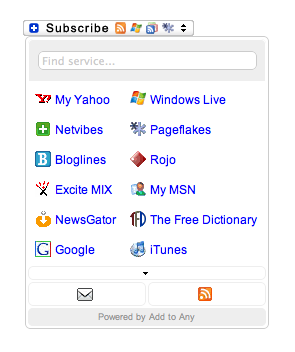
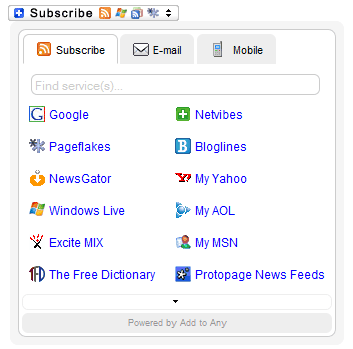
* Language & localization update * Screenshots updated
git-svn-id: https://plugins.svn.wordpress.org/add-to-any-subscribe/trunk@73704 b8457f37-d9ea-0310-8a92-e5e31aec5664

diff --git a/add-to-any-subscribe.php b/add-to-any-subscribe.php
@@ -3,7 +3,7 @@
 Plugin Name: Add to Any: Subscribe Button
 Plugin URI: http://www.addtoany.com/buttons/
 Description: Lets readers subscribe to your blog using any feed reader.  [<a href="widgets.php">Settings</a> - on the Widgets page]
-Version: .9.5.2
+Version: .9.5.3
 Author: Add to Any
 Author URI: http://www.addtoany.com/contact/
 */
@@ -121,19 +121,23 @@ if (!function_exists('A2A_menu_locale')) {
 		global $A2A_locale;
 		if( $A2A_locale != '' ) return false;
 		$A2A_locale = 'a2a_localize = {
-	Share: "' . __("Share", "add-to-any-subscribe") . '",
-	Save: "' . __("Save", "add-to-any-subscribe") . '",
-	Subscribe: "' . __("Subscribe", "add-to-any-subscribe") . '",
-	ShowAll: "' . __("Show all", "add-to-any-subscribe") . '",
-	ShowLess: "' . __("Show less", "add-to-any-subscribe") . '",
-	FindServices: "' . __("Find service(s)", "add-to-any-subscribe") . '",
-	FindAnyServiceToAddTo: "' . __("Instantly find any service to add to", "add-to-any-subscribe") . '",
-	PoweredBy: "' . __("Powered by", "add-to-any-subscribe") . '",
-	ShareViaEmail: "' . __("Share via e-mail", "add-to-any-subscribe") . '",
-	SubscribeViaEmail: "' . __("Subscribe via e-mail", "add-to-any-subscribe") . '",
-	BookmarkInYourBrowser: "' . __("Bookmark in your browser", "add-to-any-subscribe") . '",
-	BookmarkInstructions: "' . __("After clicking OK, press Ctrl+D or Cmd+D to bookmark this page", "add-to-any-subscribe") . '",
-	AddToYourFavorites: "' . __("Add to your favorites", "add-to-any-subscribe") . '"
+	Share: "' . __("Share", "add-to-any") . '",
+	Save: "' . __("Save", "add-to-any") . '",
+	Subscribe: "' . __("Subscribe", "add-to-any") . '",
+	Email: "' . __("E-mail") . '",
+    Bookmark: "' . __("Bookmark") . '",
+	ShowAll: "' . __("Show all", "add-to-any") . '",
+	ShowLess: "' . __("Show less", "add-to-any") . '",
+	FindServices: "' . __("Find service(s)", "add-to-any") . '",
+	FindAnyServiceToAddTo: "' . __("Instantly find any service to add to", "add-to-any") . '",
+	PoweredBy: "' . __("Powered by", "add-to-any") . '",
+	ShareViaEmail: "' . __("Share via e-mail", "add-to-any") . '",
+	SubscribeViaEmail: "' . __("Subscribe via e-mail", "add-to-any") . '",
+	BookmarkInYourBrowser: "' . __("Bookmark in your browser", "add-to-any") . '",
+	BookmarkInstructions: "' . __("Press Ctrl+D or Cmd+D to bookmark this page", "add-to-any") . '",
+	AddToYourFavorites: "' . __("Add to your favorites", "add-to-any") . '"
+	SendFromWebOrProgram: "' . __("Send from any e-mail address or e-mail program") . '",
+    EmailProgram: "' . __("E-mail program") . '"
 };
 ';
 		return $A2A_locale;
